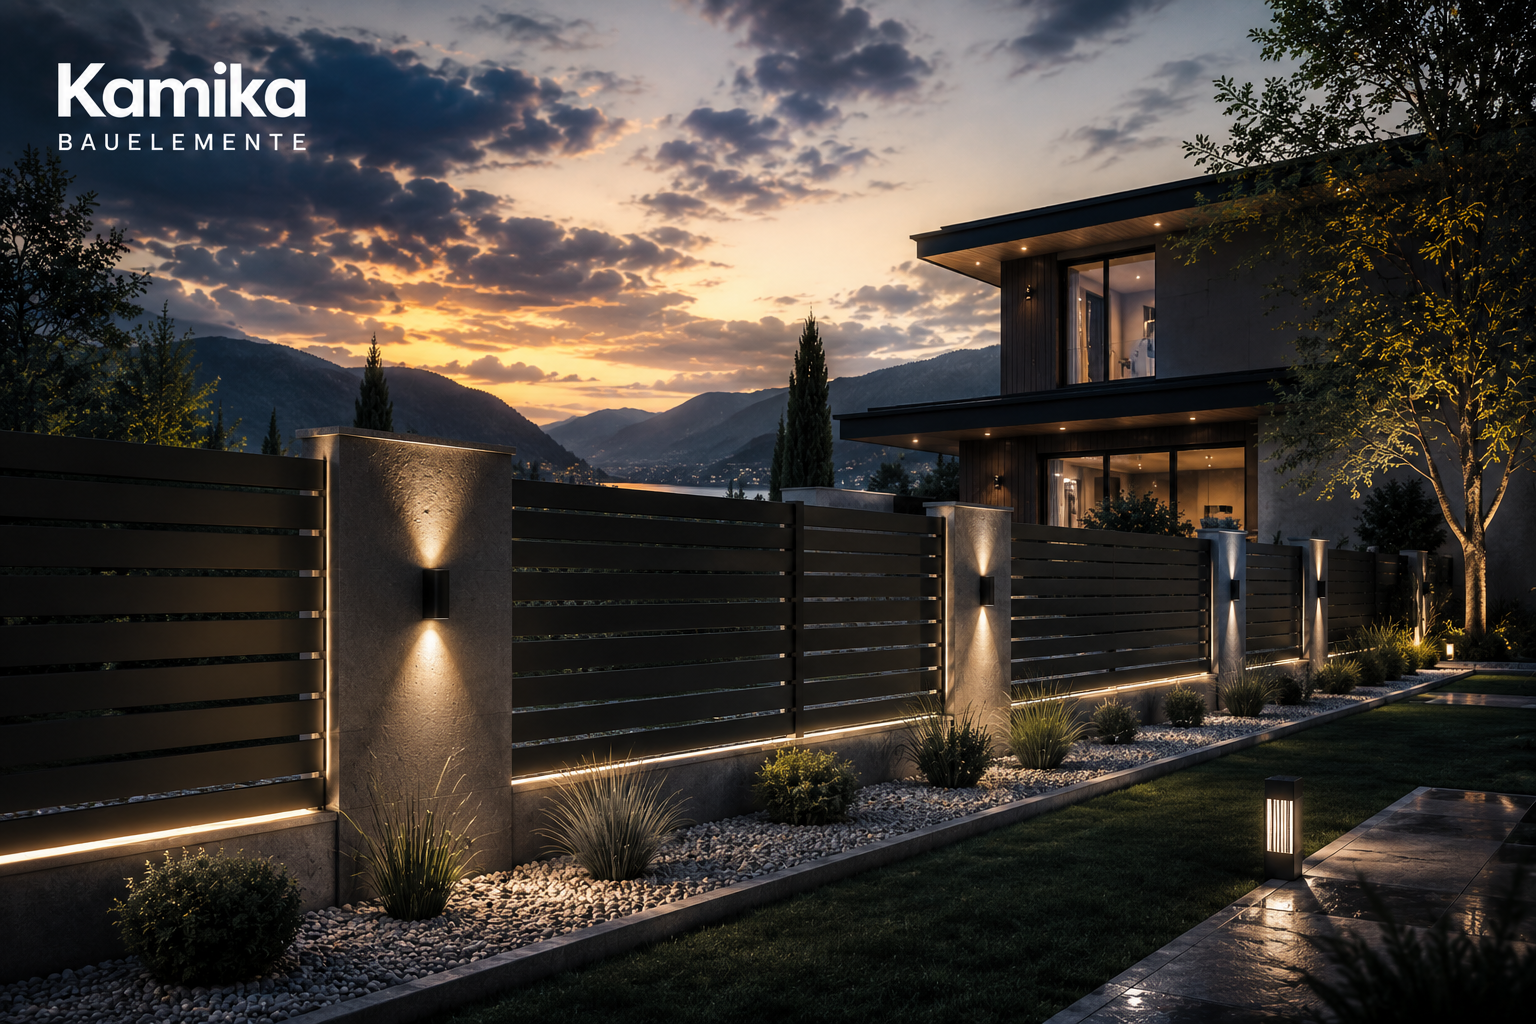
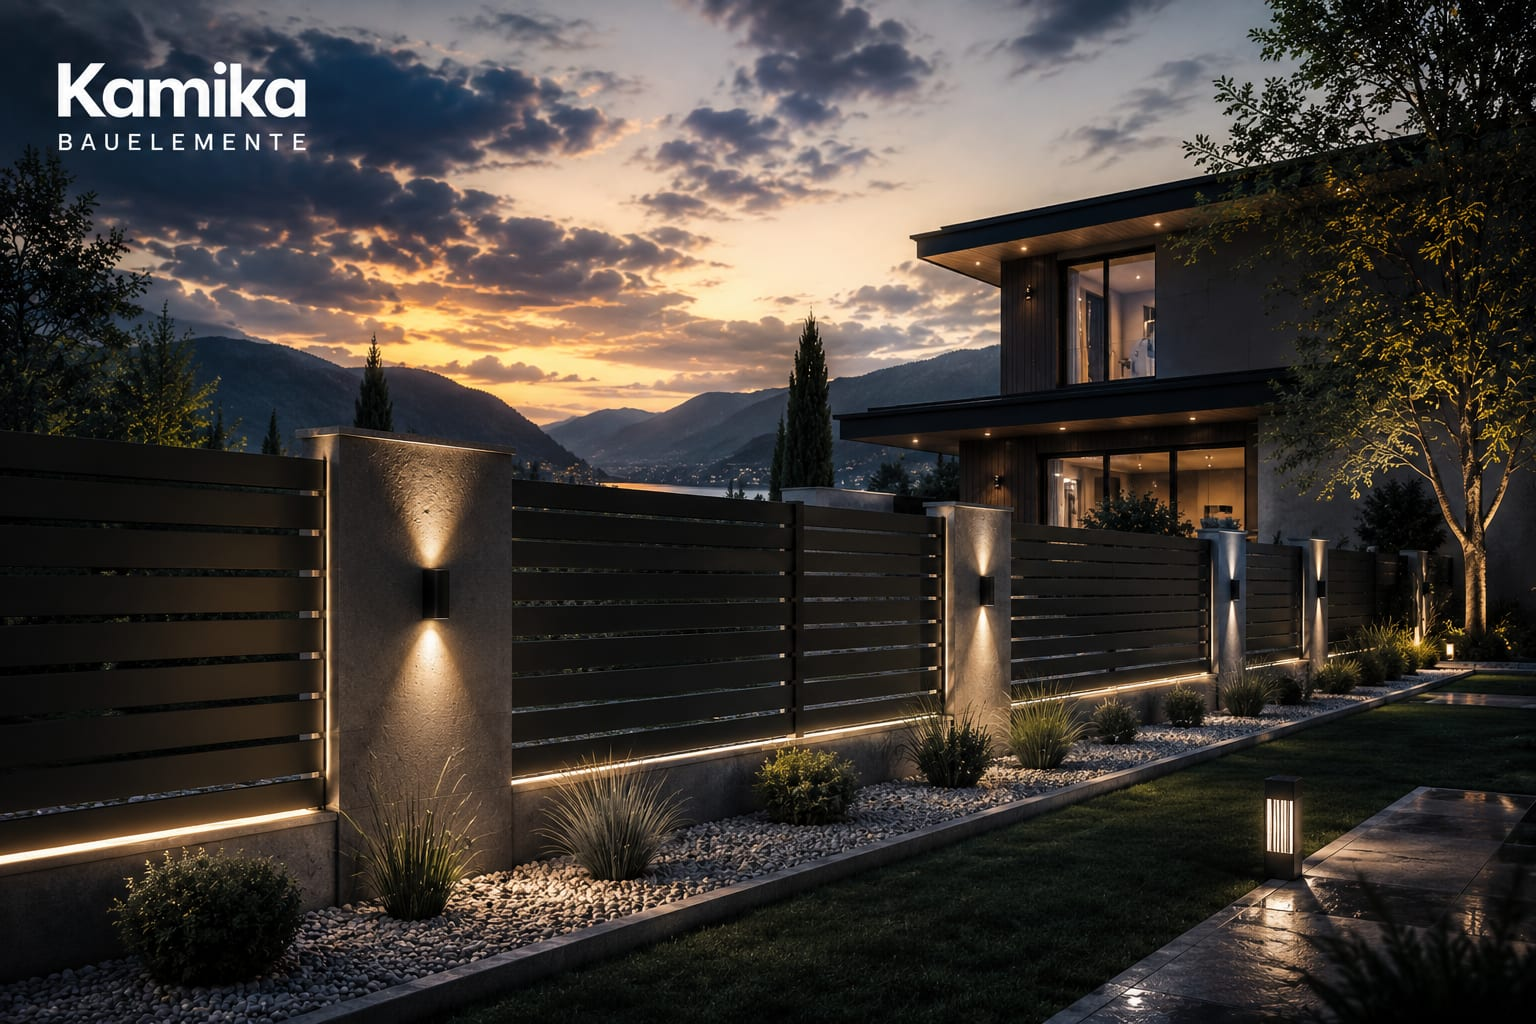
Full-site audit: 15 MB of images shaved, security headers, dead files out
Swept every layer and fixed what the sweep found.

Weight. The eight range photographs were published as they came from
the owner — 2 to 2.8 MB each. Recompressed with mozjpeg at q82: the
whole set now weighs 1.5 MB where it weighed 16.6, with no visible
difference at any size the site shows. This is the file social networks
fetch whole when a page is shared, and the source the optimizer starts
from. The five create-next-app SVGs nobody referenced are gone, and so
is the one orphaned content key.

Headers. Vercel adds no security headers on its own, so the site now
sends nosniff, SAMEORIGIN, Referrer-Policy and a Permissions-Policy
that renounces camera, microphone and geolocation — and stops
advertising X-Powered-By. The PDF viewer is same-origin and unaffected,
verified in the browser.

What the sweep did NOT find, measured rather than assumed: 40 pages ×
2 viewports with zero console errors, broken images, horizontal
overflow or duplicate h1; skip-link first on Tab, visible focus,
Escape closes the menu, reduced-motion never mounts the hero leaves;
one valid JSON-LD block per page, canonical/OG per page, sitemap
(372 URLs) consistent with robots; forms, PDFs and the two-click map
all answering 200 with the new headers on.

Also recorded: the owner confirmed the WhatsApp number is live — note
downgraded from warning to fact.

Changed region(s): [[0.875, 0.3125, 1.0, 0.4688], [0.9375, 0.1875, 0.9688, 0.2188], [0.875, 0.2188, 0.9062, 0.25]]

diff --git a/next.config.ts b/next.config.ts
@@ -1,8 +1,33 @@
 import type { NextConfig } from "next";
 
+/**
+ * Cabeceras de seguridad. Vercel no las pone por su cuenta, y a este
+ * sitio le cuestan cero: no hay iframes ajenos que romper (el mapa se
+ * abre DESDE aquí hacia Google, no al revés) ni scripts de terceros.
+ *
+ *  - nosniff: el navegador no "adivina" tipos de contenido. Con PDFs
+ *    subidos por terceros (los catálogos del proveedor), obligatoria.
+ *  - SAMEORIGIN: nadie puede meter esta web en un iframe suyo — contra
+ *    el clickjacking. El visor de catálogos es same-origin y no se ve
+ *    afectado.
+ *  - Referrer-Policy: al salir hacia Google Maps o WhatsApp se manda el
+ *    origen, no la URL completa de la página.
+ *  - Permissions-Policy: la web no usa cámara, micro ni geolocalización;
+ *    se declara para que ningún script pueda pedirlos jamás.
+ */
+const SECURITY_HEADERS = [
+  { key: "X-Content-Type-Options", value: "nosniff" },
+  { key: "X-Frame-Options", value: "SAMEORIGIN" },
+  { key: "Referrer-Policy", value: "strict-origin-when-cross-origin" },
+  { key: "Permissions-Policy", value: "camera=(), microphone=(), geolocation=()" },
+];
+
 const nextConfig: NextConfig = {
-  /* config options here */
   reactCompiler: true,
+  // "X-Powered-By: Next.js" no le sirve a nadie más que a quien busca
+  // versiones que atacar.
+  poweredByHeader: false,
+  headers: async () => [{ source: "/(.*)", headers: SECURITY_HEADERS }],
 };
 
 export default nextConfig;

diff --git a/src/data/company.ts b/src/data/company.ts
@@ -63,9 +63,7 @@ export const companyEmailHref = `mailto:${COMPANY.email}`;
 /**
  * WhatsApp. `wa.me` quiere el número en E.164 sin el "+" ni espacios.
  *
- * ⚠ PENDIENTE DE CONFIRMAR: que ESE número tenga WhatsApp. Si no lo
- * tiene, el enlace lleva a "este número no está en WhatsApp", que es
- * peor que no ofrecerlo. Ver CONTENT.md.
+ * Confirmado: este número tiene WhatsApp y ya se usa con clientes.
  */
 const whatsappNumber = COMPANY.phone.replace(/[^\d]/g, "");
 

diff --git a/src/content/en.ts b/src/content/en.ts
@@ -51,7 +51,6 @@ export const en = {
   // Reservada: regla de negocio para marcas de terceros — nunca se
   // enlaza a la web del fabricante, se autoaloja su PDF y este es el
   // botón secundario. Todavía no hay ninguna marca de terceros.
-  "common.downloadCatalogue": "Download catalogue (PDF)",
   "common.browse": "Browse",
   "common.download": "Download",
   "common.openInNewTab": "Open in new tab",

diff --git a/src/content/de.ts b/src/content/de.ts
@@ -55,7 +55,6 @@ export const de: Record<ContentKey, string> = {
   // enlaza a la web del fabricante, se autoaloja su PDF y este es el
 
   // botón secundario. Todavía no hay ninguna marca de terceros.
-  "common.downloadCatalogue": "", // TODO: DE
   "common.browse": "", // TODO: DE
   "common.download": "", // TODO: DE
   "common.openInNewTab": "", // TODO: DE

diff --git a/CONTENT.md b/CONTENT.md
@@ -51,9 +51,7 @@ button, and the address in plain sight. Nothing is lost, but **nothing arrives o
 **WhatsApp** now appears in the contact block, the contact page, the footer and the fallback, as
 `https://wa.me/491627742992`, built from `COMPANY.phone`.
 
-- ⚠ **Confirm that number is actually on WhatsApp.** If it is not, the link lands on "this number
-  is not on WhatsApp", which is worse than not offering it. That is the one thing to verify before
-  the site is shown to customers.
+- ✅ Confirmed by the owner's side: that number is on WhatsApp and is already used with customers.
 - No WhatsApp logo is used, only the name and a neutral speech bubble — same rule as everywhere
   else on this site: no third-party marks.
 
